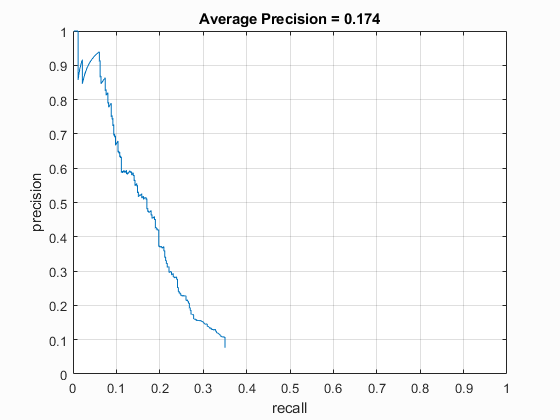
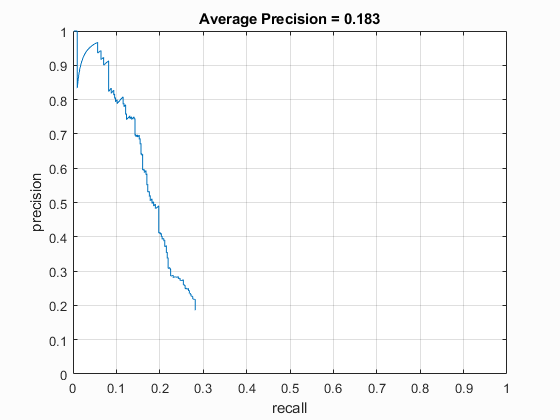
non-max suppression fixed

diff --git a/code_and_images/detect.m b/code_and_images/detect.m
@@ -44,6 +44,7 @@ for i=1:nImages
     % get the most confident predictions 
     [~,inds] = sort(confs(:),'descend');
     inds = inds(1:20); % (use a bigger number for better recall)
+    boxesAdded = 1;
     for n=1:numel(inds)        
         [row,col] = ind2sub([size(feats,1) size(feats,2)],inds(n));
         
@@ -55,7 +56,8 @@ for i=1:nImages
         image_name = {imageList(i).name};
         
         saveToggle = true;
-        for pInd=height(bboxes)-1:-1:height(bboxes)-n
+        pCount = 1;
+        for pInd=height(bboxes):-1:height(bboxes)-boxesAdded+2
             pBox = bboxes(pInd,:);
             
             bi=[max(bbox(1),pBox(1)) ; max(bbox(2),pBox(2)) ...
@@ -67,16 +69,18 @@ for i=1:nImages
                iw*ih;
             overlap=iw*ih/ua;
             if (overlap > thres)
-                 [pRow,pCol] = ind2sub([size(feats,1) size(feats,2)],inds(pInd));
-                 pConf = confs(pRow,pCol);
-                 if (pConf < conf)
+                saveToggle = false;
+                [pRow,pCol] = ind2sub([size(feats,1) size(feats,2)],inds(n-pCount));
+                pConf = confs(pRow,pCol);
+                if (pConf < conf)
                     bboxes(pInd,:) = bbox;
-                    saveToggle = false;
-                 end
-                 break;
+                end
+                break;
             end
+            pCount = pCount+1;
         end
         if (saveToggle)
+            boxesAdded = boxesAdded+1;
             % plot
             plot_rectangle = [bbox(1), bbox(2); ...
                 bbox(1), bbox(4); ...
@@ -91,7 +95,7 @@ for i=1:nImages
             image_names = [image_names; image_name];
         end
     end
-    %pause;
+    pause;
     fprintf('got preds for image %d/%d\n', i,nImages);
 end
 
